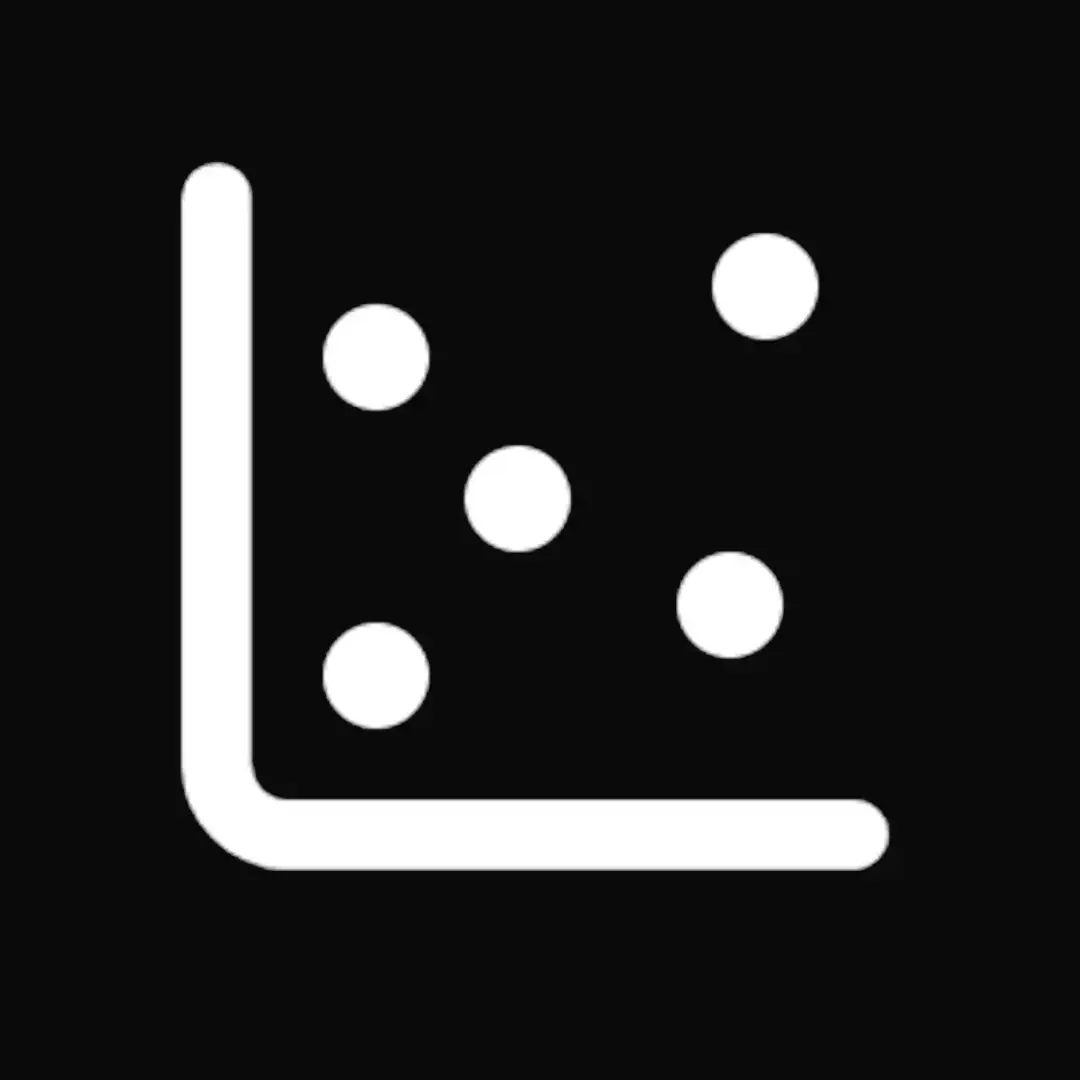
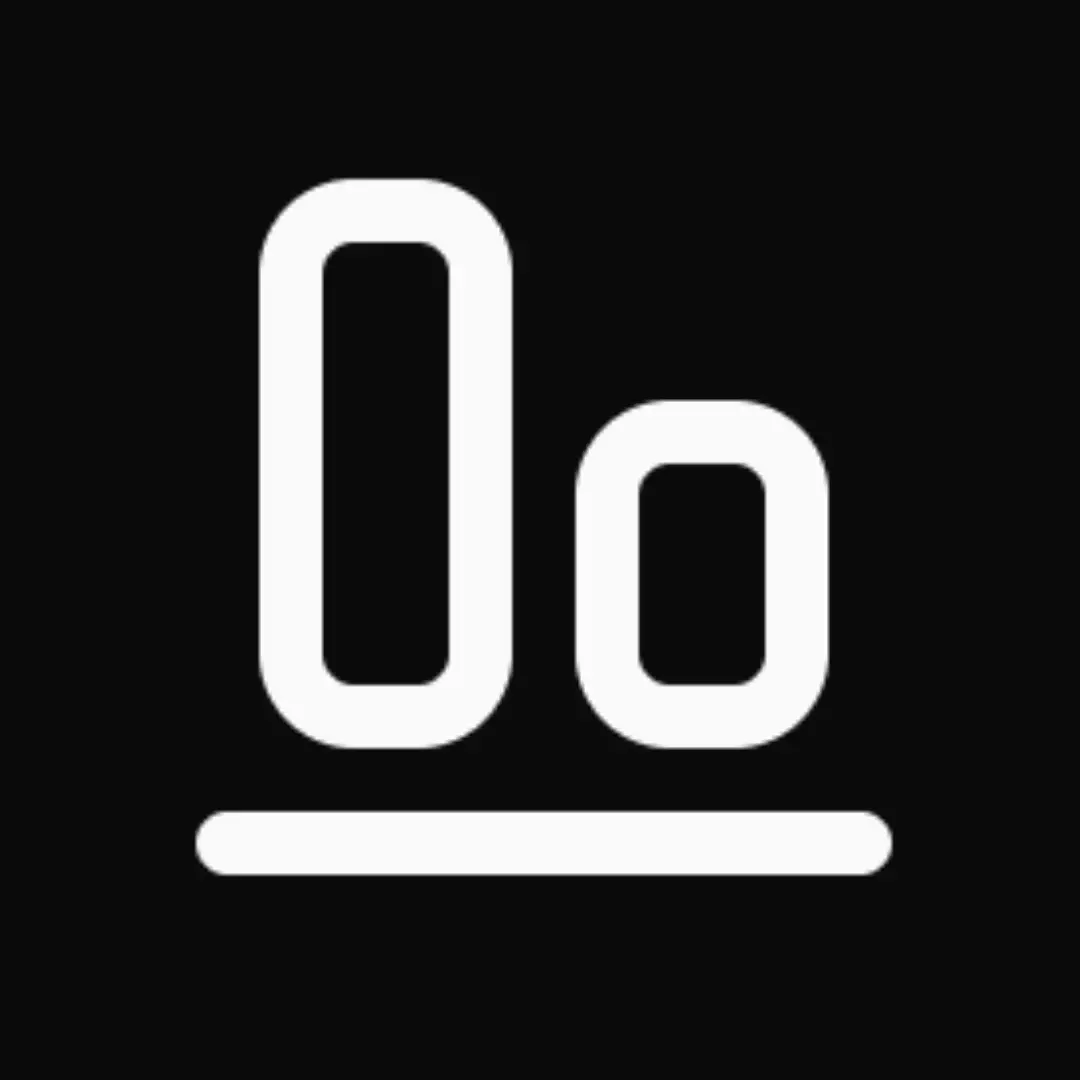
[UI] update brands and spacing

Changed region(s): [[0.1528, 0.1528, 0.825, 0.825], [0.6417, 0.2139, 0.7639, 0.3361]]

diff --git a/src/app/election-cycle/page.js b/src/app/election-cycle/page.js
@@ -850,7 +850,7 @@ function ElectionCyclePageContent() {
             <div className="grid gap-2 md:grid-cols-2">
               <Card>
                 <CardHeader className="gap-1">
-                  <CardTitle className="text-sm">Earnings Per Share</CardTitle>
+                  <CardTitle className="text-sm">Earnings Results</CardTitle>
                   <CardDescription className="text-xs">Tracking actual results against estimates</CardDescription>
                 </CardHeader>
                 <CardContent>
@@ -885,27 +885,29 @@ function ElectionCyclePageContent() {
                       {marketStateInfo.label}
                     </span>
                   ) : null}
-                  <div className="flex items-baseline gap-2">
-                    <span className="text-xl font-bold">
-                      {symbolInfo?.currentPrice != null
-                        ? symbolInfo.currentPrice.toLocaleString('en-US', {
-                            minimumFractionDigits: 2,
-                            maximumFractionDigits: 2,
-                          })
-                        : '-'}
-                    </span>
-                    {symbolInfo?.currency && (
-                      <span className="text-xs text-muted-foreground">{symbolInfo.currency}</span>
+                  <div className="flex flex-col gap-1">
+                    <div className="flex items-baseline gap-2">
+                      <span className="text-xl font-bold">
+                        {symbolInfo?.currentPrice != null
+                          ? symbolInfo.currentPrice.toLocaleString('en-US', {
+                              minimumFractionDigits: 2,
+                              maximumFractionDigits: 2,
+                            })
+                          : '-'}
+                      </span>
+                      {symbolInfo?.currency && (
+                        <span className="text-xs text-muted-foreground">{symbolInfo.currency}</span>
+                      )}
+                    </div>
+                    {symbolInfo?.dailyChange != null && symbolInfo?.dailyChangePct != null && (
+                      <span
+                        className={`text-xs font-medium ${symbolInfo.dailyChange >= 0 ? 'text-green-600' : 'text-red-600'}`}
+                      >
+                        {symbolInfo.dailyChange >= 0 ? '+' : ''}
+                        {symbolInfo.dailyChange.toFixed(2)} ({symbolInfo.dailyChangePct.toFixed(2)}%)
+                      </span>
                     )}
                   </div>
-                  {symbolInfo?.dailyChange != null && symbolInfo?.dailyChangePct != null && (
-                    <span
-                      className={`text-sm font-medium ${symbolInfo.dailyChange >= 0 ? 'text-green-600' : 'text-red-600'}`}
-                    >
-                      {symbolInfo.dailyChange >= 0 ? '+' : ''}
-                      {symbolInfo.dailyChange.toFixed(2)} ({symbolInfo.dailyChangePct.toFixed(2)}%)
-                    </span>
-                  )}
                 </div>
                 <div className="flex flex-col items-end gap-3">
                   <Select
@@ -935,7 +937,7 @@ function ElectionCyclePageContent() {
                         type="button"
                         size="xs"
                         variant={scaleChoice === option.value ? 'default' : 'ghost'}
-                        className={`px-2 text-[11px] ${scaleChoice === option.value ? 'shadow-sm' : ''}`}
+                        className={`px-2 py-1 text-xs ${scaleChoice === option.value ? 'shadow-sm' : ''}`}
                         onClick={() => setScaleChoice(option.value)}
                       >
                         {option.label}
@@ -1082,7 +1084,7 @@ function ElectionCyclePageContent() {
                         <CardHeader className="gap-3">
                           <div className="flex items-start justify-between gap-2">
                             <div className="space-y-1">
-                              <CardTitle className="text-sm">Earnings Per Share</CardTitle>
+                              <CardTitle className="text-sm">Earnings Results</CardTitle>
                               <p className="text-xs text-muted-foreground">
                                 <span className="font-semibold text-foreground">
                                   {latestEarningsPoint.periodLabel}
@@ -1202,7 +1204,7 @@ function ElectionCyclePageContent() {
                                   type="button"
                                   size="xs"
                                   variant={revenuePeriod === option.value ? 'default' : 'ghost'}
-                                  className={`px-1 text-xs ${revenuePeriod === option.value ? 'shadow-sm' : ''}`}
+                                  className={`px-2 py-1 text-xs ${revenuePeriod === option.value ? 'shadow-sm' : ''}`}
                                   onClick={() => setRevenuePeriod(option.value)}
                                   disabled={option.disabled}
                                 >

diff --git a/src/app/layout.js b/src/app/layout.js
@@ -6,7 +6,7 @@ import { PWARegister } from "@/components/pwa-register";
 import { PWAInstallDialog } from "@/components/pwa-install-dialog";
 import { ClearDataButton } from "@/components/clear-data-button";
 import { HeaderSymbolSearch } from "@/components/header-symbol-search";
-import { ChartScatter } from "lucide-react";
+import { AlignEndHorizontal } from "lucide-react";
 
 const geistSans = Geist({
   variable: "--font-geist-sans",
@@ -74,9 +74,9 @@ export default function RootLayout({ children }) {
             <header className="sticky top-0 z-40 bg-background/95 backdrop-blur supports-[backdrop-filter]:bg-background/60">
               <div className="mx-auto max-w-[768px] flex h-14 items-center justify-between gap-3 px-2">
                 <ClearDataButton />
-                <div className="flex gap-2 items-center">
-                  <ChartScatter className="size-5 text-white" />
-                  <h1 className="text-base font-bold">{"aruna"}</h1>
+                <div className="flex gap-1 items-center">
+                  <AlignEndHorizontal className="size-5" />
+                  <h1 className="text-lg font-bold">{"aruna"}...</h1>
                 </div>
                 <HeaderSymbolSearch />
               </div>
